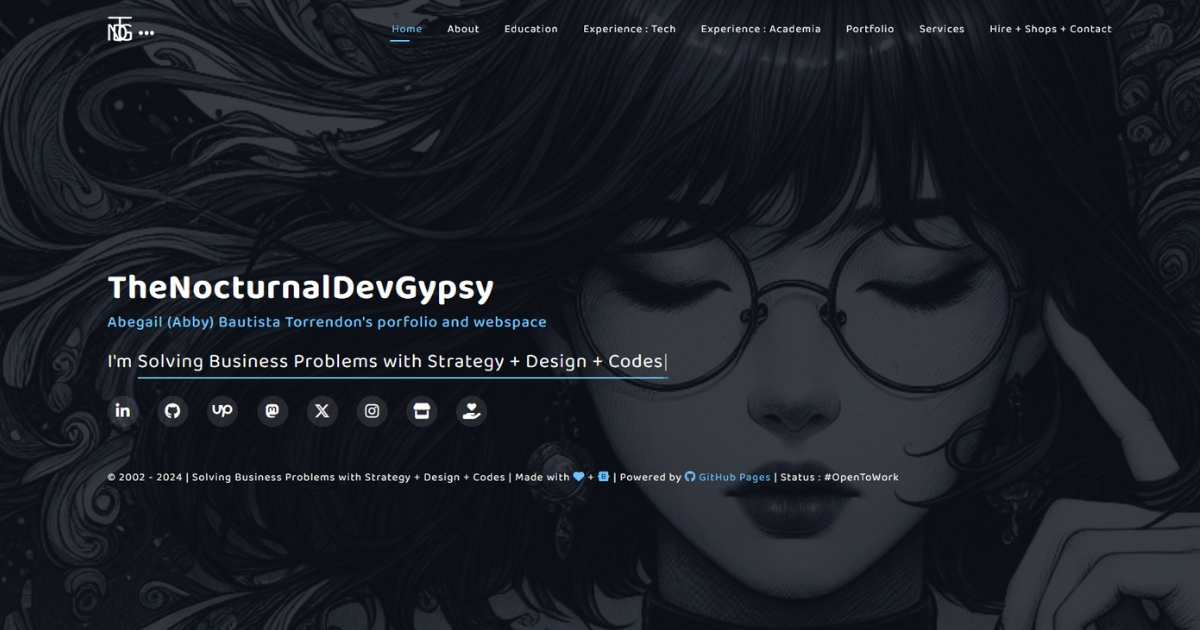
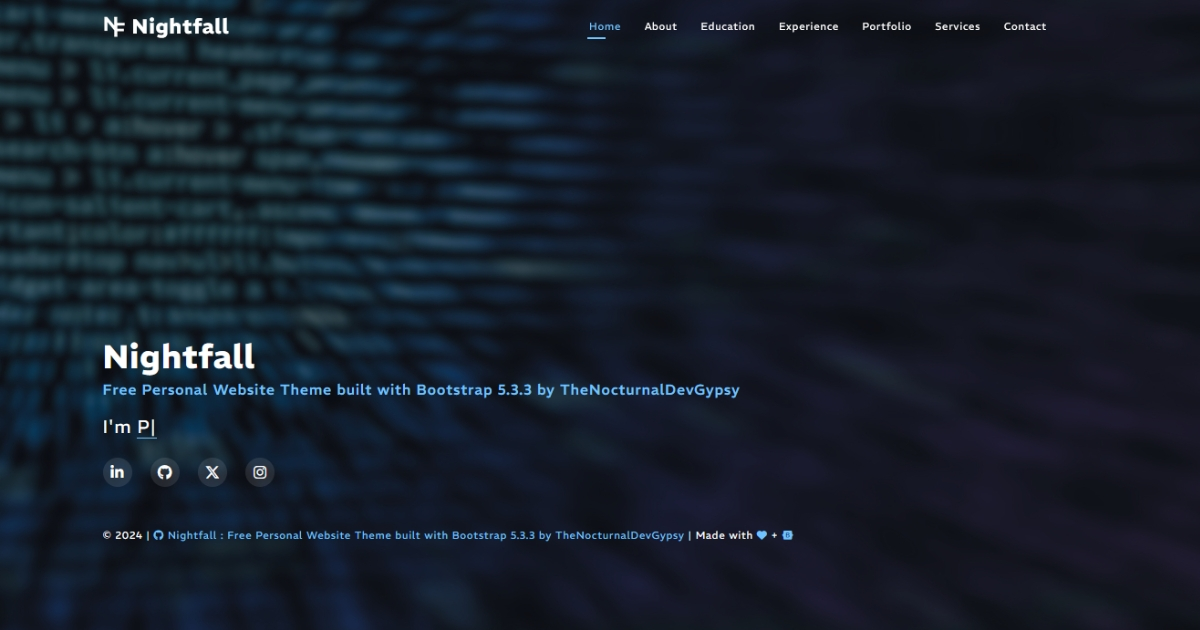
Updated about.html and related files. Updated README.md for the changes. To resolve Issue #10

diff --git a/about.html b/about.html
@@ -109,7 +109,7 @@
          <div class="container-fluid container-xl position-relative d-flex align-items-center justify-content-between">
 
             <!-- Logo and Header Text // Start -->
-            <a href="index.html" class="logo d-flex align-items-center"><img src="assets/images/logo.png" alt=""><h1 class="sitename">...</h1></a>
+            <a href="index.html" class="logo d-flex align-items-center"><img src="assets/images/logo.png" alt=""><h1 class="sitename">Nightfall</h1></a>
             <!-- Logo and Header Text // End -->
 
             <!-- Navbar Links // Start -->
@@ -118,11 +118,10 @@
                   <li><a href="index.html">Home</a></li>
                   <li><a href="about.html" class="active">About</a></li>
                   <li><a href="education.html">Education</a></li>
-                  <li><a href="experience-management-project-product-development.html">Experience : Tech</a></li>
-                  <li><a href="experience-academia-learning.html">Experience : Academia</a></li>
-                  <li><a href="portfolio-public.html">Portfolio</a></li>
+                  <li><a href="experience.html">Experience</a></li>
+                  <li><a href="portfolio.html">Portfolio</a></li>
                   <li><a href="services.html">Services</a></li>
-                  <li><a href="hire-and-contact.html">Hire + Shops + Contact</a></li>
+                  <li><a href="contact.html">Contact</a></li>
                </ul>
                <i class="mobile-nav-toggle d-xl-none bi bi-list"></i>
             </nav>
@@ -142,7 +141,7 @@
                   <div class="row d-flex justify-content-center text-center">
                      <div class="col-lg-8">
                         <h1>About</h1>
-                        <h2>With over 20 years of diverse experience in IT Infrastructure and Development, from Technical Project and Operations Management, Product Management, Full-stack Development, Consultancy to Learning Development since 2002</h2>
+                        <h2>With over number of years of experience (you know the drill) since 2002</h2>
                         <p class="mb-0">Yep, that's me.</p>
                      </div>
                   </div>
@@ -164,11 +163,11 @@
 
                   <!-- About > Summary > Details // Start -->
                   <div class="col-lg-8 content">
-                     <h2 class="py-1">Ohayo, I'm Abby (@TheNocturnalDevGypsy since 2002)</h2>
-                     <p class="py-1">I'm a Technical Project and Operations Manager, Product Owner, Technical Writer, and an old-school Full Stack Developer, and a (on-hiatus) CS/IT Assistant Professor. I also do commissioned Graphic Design for branding and social media. In my free time, I'm diving into AI text-to-image prompting, expanding my knowledge of Crypto & NFTs, laying the groundwork for three open-source projects: a Static Page Generator, a Crypto Font Library, and a Link in Bio CMS, and playing around with my personal website.</p>
-                     <p class="py-1">I'm currently based in Asia, been in UAE, Singapore, Malaysia, Indonesia, China, Hong Kong, and Japan. I got based in Amsterdam, Netherlands for some time as well. Since April 2017, I've been settled in District 1, Ho Chi Minh City, Vietnam, and since May 2024, I've been dividing my time between there and Watthana, Bangkok, Thailand.</p>
-                     <p class="py-1">I call myself <strong>TheNocturnalDevGypsy</strong> since 2002 because my work life has always embraced a nomadic, after-hours spirit. I've spent countless late nights freelancing on projects, whether they were someone's website or college thesis / capstone. My studies and career have led me to roam from city to city (even overseas), keeping life fresh and unpredictable. I resonate with the term <em>gypsy</em>, not only for my love of jewelry and trinkets but also for the freedom and creativity my work brings.</p>
-                     <p class="py-1">This webspace is my creative playground: a place to showcase my work, experiment with ideas, and store pieces of my technical journey since January 2002. There's no strict theme here; it's more like a living folder that reflects my current mindset. Compiling my portfolio, testing new concepts, and regularly updating the site keeps my fingers and brain fast and healthy.</p>
+                     <h2 class="py-1">Ohayo, I'm Nightfall</h2>
+                     <p class="py-1">Lorem ipsum dolor sit amet, consectetur adipiscing elit, sed do eiusmod tempor incididunt ut labore et dolore magna aliqua. Ut enim ad minim veniam, quis nostrud exercitation ullamco laboris nisi ut aliquip ex ea commodo consequat.</p>
+                     <p class="py-1">Duis aute irure dolor in reprehenderit in voluptate velit esse cillum dolore eu fugiat nulla pariatur. Excepteur sint occaecat cupidatat non proident, sunt in culpa qui officia deserunt mollit anim id est laborum.</p>
+                     <p class="py-1">Sed ut perspiciatis unde omnis iste natus error sit voluptatem accusantium doloremque laudantium, totam rem aperiam, eaque ipsa quae ab illo inventore veritatis et quasi architecto beatae vitae dicta sunt explicabo. Nemo enim ipsam voluptatem quia voluptas sit aspernatur aut odit aut fugit, sed quia consequuntur magni dolores eos qui ratione voluptatem sequi nesciunt. Neque porro quisquam est, qui dolorem ipsum quia dolor sit amet, consectetur, adipisci velit, sed quia non numquam eius modi tempora incidunt ut labore et dolore magnam aliquam quaerat voluptatem.</p>
+                     <p class="py-1">Ut enim ad minima veniam, quis nostrum exercitationem ullam corporis suscipit laboriosam, nisi ut aliquid ex ea commodi consequatur? Quis autem vel eum iure reprehenderit qui in ea voluptate velit esse quam nihil molestiae consequatur, vel illum qui dolorem eum fugiat quo voluptas nulla pariatur?</p>
                      <p class="py-1">Hope you like it; I made with a lot of <i class="bi bi-heart"></i> + <i class="bi bi-cup-hot"></i> !</p>
                   </div>
                   <!-- About > Summary > Details // Start -->
@@ -185,10 +184,20 @@
 
                   <!-- About > Stats Item // Start -->
                   <div class="col-lg-3 col-md-6 d-flex flex-column align-items-center">
+                     <i class="fa-solid fa-person-chalkboard"></i>
+                     <div class="stats-item">
+                        <span data-purecounter-start="0" data-purecounter-end="7" data-purecounter-duration="1" class="purecounter"></span>
+                        <p>Years as a Professional in a Certain Field (or Fields)</p>
+                     </div>
+                  </div>
+                  <!-- About > Stats Item // End -->
+
+                  <!-- About > Stats Item // Start -->
+                  <div class="col-lg-3 col-md-6 d-flex flex-column align-items-center">
                      <i class="fa-solid fa-map-location-dot"></i>
                      <div class="stats-item">
-                        <span data-purecounter-start="0" data-purecounter-end="18" data-purecounter-duration="1" class="purecounter"></span>
-                        <p>Countries and major cities in Philippines relocations (I also do remote-based, I'm always flexible)</p>
+                        <span data-purecounter-start="0" data-purecounter-end="10" data-purecounter-duration="1" class="purecounter"></span>
+                        <p>Countries visited, and still exploring!</p>
                      </div>
                   </div>
                   <!-- About > Stats Item // End -->
@@ -197,28 +206,18 @@
                   <div class="col-lg-3 col-md-6 d-flex flex-column align-items-center">
                      <i class="fa-regular fa-handshake"></i>
                      <div class="stats-item">
-                        <span data-purecounter-start="0" data-purecounter-end="32" data-purecounter-duration="1" class="purecounter"></span>
-                        <p>Big and Start-up Companies + Academic Departments joined + Fixed Freelance Gigs</p>
+                        <span data-purecounter-start="0" data-purecounter-end="70" data-purecounter-duration="1" class="purecounter"></span>
+                        <p>Clients worked with (and still counting)</p>
                      </div>
                   </div>
                   <!-- About > Stats Item // End -->
 
                   <!-- About > Stats Item // Start -->
                   <div class="col-lg-3 col-md-6 d-flex flex-column align-items-center">
-                     <i class="fa-solid fa-person-chalkboard"></i>
-                     <div class="stats-item">
-                        <span data-purecounter-start="0" data-purecounter-end="1831" data-purecounter-duration="1" class="purecounter"></span>
-                        <p>College/Graduating Students and Work Colleagues I've Taught + Mentored + Managed</p>
-                     </div>
-                  </div>
-                  <!-- About > Stats Item // End -->
-
-                  <!-- About > Stats Item // Start -->
-                  <div class="col-lg-3 col-md-6 d-flex flex-column align-items-center">
-                     <i class="fa-solid fa-diagram-project"></i>
+                     <i class="fa-solid fa-code"></i>
                      <div class="stats-item">
                         <span data-purecounter-start="0" data-purecounter-end="147" data-purecounter-duration="1" class="purecounter"></span>
-                        <p>Projects + Products Managed (Coded and Documented too), and still counting</p>
+                        <p>Projects coded and still counting</p>
                      </div>
                   </div>
                   <!-- About > Stats Item // End -->
@@ -247,7 +246,7 @@
 
                      <!-- About > Skill Animation Item // Start -->
                      <div class="progress">
-                        <span class="skill"><span>Technical Project and Operation Management</span> <i class="val">100%</i></span>
+                        <span class="skill"><span>HTML</span> <i class="val">100%</i></span>
                         <div class="progress-bar-wrap">
                            <div class="progress-bar" role="progressbar" aria-valuenow="100" aria-valuemin="0" aria-valuemax="100"></div>
                         </div>
@@ -256,7 +255,7 @@
 
                      <!-- About > Skill Animation Item // Start -->
                      <div class="progress">
-                        <span class="skill"><span>Technical Writing</span> <i class="val">80%</i></span>
+                        <span class="skill"><span>JavaScript</span> <i class="val">80%</i></span>
                         <div class="progress-bar-wrap">
                            <div class="progress-bar" role="progressbar" aria-valuenow="80" aria-valuemin="0" aria-valuemax="100"></div>
                         </div>
@@ -265,7 +264,7 @@
                      
                      <!-- About > Skill Animation Item // Start -->
                      <div class="progress">
-                        <span class="skill"><span>Academic, Mentoring and Learning Development</span> <i class="val">70%</i></span>
+                        <span class="skill"><span>mySQL / SQL</span> <i class="val">70%</i></span>
                         <div class="progress-bar-wrap">
                            <div class="progress-bar" role="progressbar" aria-valuenow="70" aria-valuemin="0" aria-valuemax="100"></div>
                         </div>
@@ -280,7 +279,7 @@
 
                      <!-- About > Skill Animation Item // Start -->
                      <div class="progress">
-                        <span class="skill"><span>Product Ownership and Management</span> <i class="val">100%</i></span>
+                        <span class="skill"><span>CSS</span> <i class="val">100%</i></span>
                         <div class="progress-bar-wrap">
                            <div class="progress-bar" role="progressbar" aria-valuenow="100" aria-valuemin="0" aria-valuemax="100"></div>
                         </div>
@@ -289,7 +288,7 @@
 
                      <!-- About > Skill Animation Item // Start -->
                      <div class="progress">
-                        <span class="skill"><span>Full Stack Development and IT Infrastructure</span> <i class="val">85%</i></span>
+                        <span class="skill"><span>PHP</span> <i class="val">85%</i></span>
                         <div class="progress-bar-wrap">
                            <div class="progress-bar" role="progressbar" aria-valuenow="85" aria-valuemin="0" aria-valuemax="100"></div>
                         </div>
@@ -298,7 +297,7 @@
 
                      <!-- About > Skill Animation Item // Start -->
                      <div class="progress">
-                        <span class="skill"><span>Graphic Design (Brand and Social Media Marketing)</span> <i class="val">75%</i></span>
+                        <span class="skill"><span>Graphic Design</span> <i class="val">75%</i></span>
                         <div class="progress-bar-wrap">
                            <div class="progress-bar" role="progressbar" aria-valuenow="75" aria-valuemin="0" aria-valuemax="100"></div>
                         </div>
@@ -322,7 +321,7 @@
                         <i class="fa-solid fa-laptop-code"></i>
                         <div class="techstack-item">
                            <p>Programming, Framework &amp; Tools</p>
-                           <span>Windows</span> <span>macOS</span> <span>Ubuntu</span> <span>Dynamics 365</span> <span>Vercel</span> <span>GitHub Pages</span> <span>AWS</span> <span>AlibabaCloud</span> <span>Firefox</span> <span>Visual Studio Code</span> <span>Java</span> <span>HTML</span> <span>CSS</span> <span>JavaScript</span> <span>Bootstrap</span> <span>Chart.js</span> <span>PHP</span> <span>SQL</span> <span>mySQL</span> <span>Git</span> <span>GitHub</span> <span>GitHub Actions</span>
+                           <span>Windows</span> <span>macOS</span> <span>Ubuntu</span> <span>Vercel</span> <span>GitHub Pages</span> <span>AWS</span> <span>Visual Studio Code</span> <span>HTML</span> <span>CSS</span> <span>JavaScript</span> <span>Bootstrap</span> <span>PHP</span> <span>SQL</span> <span>mySQL</span> <span>Git</span> <span>GitHub</span> <span>GitHub Actions</span>
                         </div>
                      </div>
                      <!-- About > Stats Item // End -->
@@ -332,7 +331,7 @@
                         <i class="fa-solid fa-palette"></i> 
                         <div class="techstack-item">
                            <p>Graphics, Design &amp; AI</p>
-                           <span>Canva</span> <span>Figma</span> <span>Photoshop</span> <span>Bing Image Creator / Microsoft Designer</span>
+                           <span>Canva</span> <span>Figma</span> <span>Photoshop</span>
                         </div>
                      </div>
                      <!-- About > Stats Item // End -->
@@ -341,8 +340,8 @@
                      <div class="col-lg-4 col-md-6 d-flex flex-column align-items-center">
                         <i class="fa-solid fa-person-chalkboard"></i>
                         <div class="techstack-item">
-                           <p>Project, Product, Writing &amp; AI</p>
-                           <span>Jira</span> <span>Asana</span> <span>Trello</span> <span>GitHub Projects</span> <span>Markdown</span> <span>Notion</span> <span>Confluence</span> <span>ChatGPT</span>
+                           <p>Project Tools</p>
+                           <span>Jira</span> <span>Asana</span> <span>GitHub Projects</span> <span>Markdown</span> <span>Notion</span> <span>Confluence</span> <span>ChatGPT</span>
                         </div>
                      </div>
                      <!-- About > Stats Item // End -->
@@ -406,12 +405,12 @@
                         <div class="testimonial-item" "="">
                            <p>
                               <i class=" bi bi-quote quote-icon-left"></i>
-                              <span>I worked with Abegail in Lazada for years and she is very commendable. If you want to have a skilled TPM, she is your go to person. From every Infrastructure projects to Technical Operations issues , you know you can count on her 100%.</span>
+                              <span>Temporibus autem quibusdam et aut officiis debitis aut rerum necessitatibus saepe eveniet ut et voluptates repudiandae sint et molestiae non recusandae. Itaque earum rerum hic tenetur a sapiente delectus, ut aut reiciendis voluptatibus maiores alias consequatur aut perferendis doloribus asperiores repellat.</span>
                               <i class="bi bi-quote quote-icon-right"></i>
                            </p>
                            <img src="assets/images/testimonials/testimonials-1.jpg" class="testimonial-img" alt="">
-                           <h3>Krizyl Espiritu</h3>
-                           <h4> Incident, Problem, Crisis Management <a href="https://www.linkedin.com/in/abegail-torrendon/" target="_blank">via LinkedIn</a></h4>
+                           <h3>Cicero</h3>
+                           <h4>in 45 BC</h4> 
                         </div>
                      </div>
                      <!-- About > Testimonials Item // End -->
@@ -421,14 +420,59 @@
                         <div class="testimonial-item">
                            <p>
                               <i class="bi bi-quote quote-icon-left"></i>
-                              <span>Abegail, during our last 3 years working together, did a great job as a TPM. For a person, who stands between two worlds - Tech & Non-Tech persons, she can find common language with both crowds, helping both crowds to work smooth together. Her efforts, provide invaluable help to shield and isolate tech team from non-technical issues and tasks, filtering task flows and basic review, connecting different teams and departments on complex projects. This allows everyone to focus on their best - sysadmins keep eye on a system, developers keep coding, finance team keeps having a proper budgets planning (and well, panicking as usual).</span>
+                              <span>At vero eos et accusamus et iusto odio dignissimos ducimus qui blanditiis praesentium voluptatum deleniti atque corrupti quos dolores et quas molestias excepturi sint occaecati cupiditate non provident, similique sunt in culpa qui officia deserunt mollitia animi, id est laborum et dolorum fuga.</span>
                               <br>
-                              <span>If you need a person who will be gatekeeping for tech team, tying everything together for approvals, coordination and projects tracking, Abegail is right person to choose.</span>
+                              <span>Et harum quidem rerum facilis est et expedita distinctio. Nam libero tempore, cum soluta nobis est eligendi optio cumque nihil impedit quo minus id quod maxime placeat facere possimus, omnis voluptas assumenda est, omnis dolor repellendus.</span>
                               <i class="bi bi-quote quote-icon-right"></i>
                            </p>
-                           <img src="assets/images/testimonials/RomanOvchinnikov.jpg" class="testimonial-img" alt="">
-                           <h3>Roman Ovchinnikov</h3>
-                           <h4>System Engineering, Automation and DevOps <a href="https://www.linkedin.com/in/abegail-torrendon/" target="_blank">via LinkedIn</a></h4> 
+                           <img src="assets/images/testimonials/testimonials-2.jpg" class="testimonial-img" alt="">
+                           <h3>Cicero</h3>
+                           <h4>in 45 BC</h4> 
+                        </div>
+                     </div>
+                     <!-- About > Testimonials Item // End -->
+
+                     <!-- About > Testimonials Item // Start -->
+                     <div class="swiper-slide">
+                        <div class="testimonial-item">
+                           <p>
+                              <i class=" bi bi-quote quote-icon-left"></i>
+                              <span>Lorem ipsum dolor sit amet, consectetur adipiscing elit, sed do eiusmod tempor incididunt ut labore et dolore magna aliqua. Ut enim ad minim veniam, quis nostrud exercitation ullamco laboris nisi ut aliquip ex ea commodo consequat. Duis aute irure dolor in reprehenderit in voluptate velit esse cillum dolore eu fugiat nulla pariatur. Excepteur sint occaecat cupidatat non proident, sunt in culpa qui officia deserunt mollit anim id est laborum.</span>
+                              <i class="bi bi-quote quote-icon-right"></i>
+                           </p>
+                           <img src="assets/images/testimonials/testimonials-3.jpg" class="testimonial-img" alt="">
+                           <h3>Cicero</h3>
+                           <h4>in 45 BC</h4> 
+                        </div>
+                     </div>
+                     <!-- About > Testimonials Item // End -->
+
+                     <!-- About > Testimonials Item // Start -->
+                     <div class="swiper-slide">
+                        <div class="testimonial-item">
+                           <p>
+                              <i class=" bi bi-quote quote-icon-left"></i>
+                              <span>Sed ut perspiciatis unde omnis iste natus error sit voluptatem accusantium doloremque laudantium, totam rem aperiam, eaque ipsa quae ab illo inventore veritatis et quasi architecto beatae vitae dicta sunt explicabo. Nemo enim ipsam voluptatem quia voluptas sit aspernatur aut odit aut fugit, sed quia consequuntur magni dolores eos qui ratione voluptatem sequi nesciunt.</span>
+                              <i class="bi bi-quote quote-icon-right"></i>
+                           </p>
+                           <img src="assets/images/testimonials/testimonials-4.jpg" class="testimonial-img" alt="">
+                           <h3>Cicero</h3>
+                           <h4>in 45 BC</h4> 
+                        </div>
+                     </div>
+                     <!-- About > Testimonials Item // End -->
+
+                     <!-- About > Testimonials Item // Start -->
+                     <div class="swiper-slide">
+                        <div class="testimonial-item">
+                           <p>
+                              <i class=" bi bi-quote quote-icon-left"></i>
+                              <span>Neque porro quisquam est, qui dolorem ipsum quia dolor sit amet, consectetur, adipisci velit, sed quia non numquam eius modi tempora incidunt ut labore et dolore magnam aliquam quaerat voluptatem. Ut enim ad minima veniam, quis nostrum exercitationem ullam corporis suscipit laboriosam, nisi ut aliquid ex ea commodi consequatur? Quis autem vel eum iure reprehenderit qui in ea voluptate velit esse quam nihil molestiae consequatur, vel illum qui dolorem eum fugiat quo voluptas nulla pariatur?</span>
+                              <i class="bi bi-quote quote-icon-right"></i>
+                           </p>
+                           <img src="assets/images/testimonials/testimonials-5.jpg" class="testimonial-img" alt="">
+                           <h3>Cicero</h3>
+                           <h4>in 45 BC</h4> 
                         </div>
                      </div>
                      <!-- About > Testimonials Item // End -->
@@ -453,17 +497,13 @@
       <!-- Footer and SNS Icons // Start -->
       <footer id="footer" class="footer dark-background">
          <div class="container">
-            <h3 class="sitename">TheNocturnalDevGypsy : Porfolio and webspace of Abegail Bautista Torrendon</h3>
-            <p>&copy; 2002 - 2024 | Solving Business Problems with Strategy + Design + Codes | Made with <span class="footer-accent"><i class="fa-solid fa-heart"></i></span> + <span class="footer-accent"><i class="fa-brands fa-bootstrap"></i></span> | Powered by <span class="footer-accent"><i class="fa-brands fa-github"></i></span> <a href="https://github.com/thenocturnaldevgypsy-io/thenocturnaldevgypsy-io.github.io" target="_blank">GitHub Pages</a> | Status : #OpenToWork</p>
+            <h3 class="sitename">Nightfall</h3>
+            <p>&copy; 2024 | <i class="fa-brands fa-github"></i> <a href="https://github.com/thenocturnaldevgypsy-io/nightfall-bootstrap-template-personal" target="_blank">Nightfall : Free Personal Website Theme built with Bootstrap 5.3.3 by TheNocturnalDevGypsy</a> | Made with <span class="footer-accent"><i class="fa-solid fa-heart"></i></span> + <span class="footer-accent"><i class="fa-brands fa-bootstrap"></i></span></p>
             <div class="social-links d-flex justify-content-center">
-               <a href="https://www.linkedin.com/in/abegail-torrendon/" target="_blank"><i class="fa-brands fa-linkedin-in"></i></a>
-               <a href="https://github.com/thenocturnaldevgypsy-io" target="_blank"><i class="fa-brands fa-github"></i></a>
-               <a href="https://www.upwork.com/freelancers/~0135fa830786a3f536?s=1484275220996608000"><i class="fa-brands fa-upwork"></i></a>
-               <a href="https://mastodon.social/@TheNocturnalDevGypsy"><i class="fa-brands fa-mastodon"></i></a>
-               <a href="https://x.com/nocturnalgypsy_"><i class="fa-brands fa-x-twitter"></i></a>
-               <a href="https://www.instagram.com/nocturnal.indigo/"><i class="fa-brands fa-instagram"></i></a>
-               <a href="https://uncut.network/user/4296077072"><i class="fa-solid fa-store"></i></a>
-               <a href="https://ko-fi.com/thenocturnaldevgypsy"><i class="fa-solid fa-hand-holding-heart"></i></a>
+               <a href="https://www.linkedin.com/in/yourusername/" target="_blank"><i class="fa-brands fa-linkedin-in"></i></a>
+               <a href="https://github.com/yourusername" target="_blank"><i class="fa-brands fa-github"></i></a>
+               <a href="https://x.com/yourusername"><i class="fa-brands fa-x-twitter"></i></a>
+               <a href="https://www.instagram.com/yourusername/"><i class="fa-brands fa-instagram"></i></a>
             </div>
          </div>
       </footer>

diff --git a/README.md b/README.md
@@ -61,6 +61,12 @@ phpMyAdmin Version information: 5.1.2
 ```
 **Image Sources Credits**
 - [Coding, Computer, Hacker image. Free for use - Assets by Pexels](https://pixabay.com/photos/coding-computer-hacker-hacking-1841550/) : `assets/images/hero-bg.jpg`
+- [Adult, Blue hour, Brunette image. Free for use - Assets by Pexels](https://pixabay.com/photos/adult-blue-hour-brunette-city-2179060/) : `assets/images/profile-img.jpg`
+- [Adult, Architecture, Building image. Free for use - Assets by Pexels](https://pixabay.com/photos/adult-architecture-building-2178861/) : `assets/images/testimonials/testimonials-1.jpg`
+- [Woman, Adult, Dress image. Free for use - Assets by Pexels](https://pixabay.com/photos/woman-adult-dress-elegant-fashion-2178816/) : `assets/images/testimonials/testimonials-2.jpg`
+- [Barnett, Concert, Courtney image. Free for use - Assets by Pexels](https://pixabay.com/photos/barnett-concert-courtney-live-music-2178772/) : `assets/images/testimonials/testimonials-3.jpg`
+- [Beautiful, Fashion, Female image. Free for use - Assets by Pexels](https://pixabay.com/photos/beautiful-fashion-female-girl-2178708/) : `assets/images/testimonials/testimonials-4.jpg`
+- [Black, Black and white, Emotions image. Free for use - Assets by Pexels](https://pixabay.com/photos/black-black-and-white-emotions-2178681/) : `assets/images/testimonials/testimonials-5.jpg`
 
 ## ![SECTION Folders and Files Structure](https://custom-icon-badges.demolab.com/badge/-Folders%20and%20Files%20Structure-2471AE?logo=file-submodule&logoColor=white&labelColor=2471AE)
 
